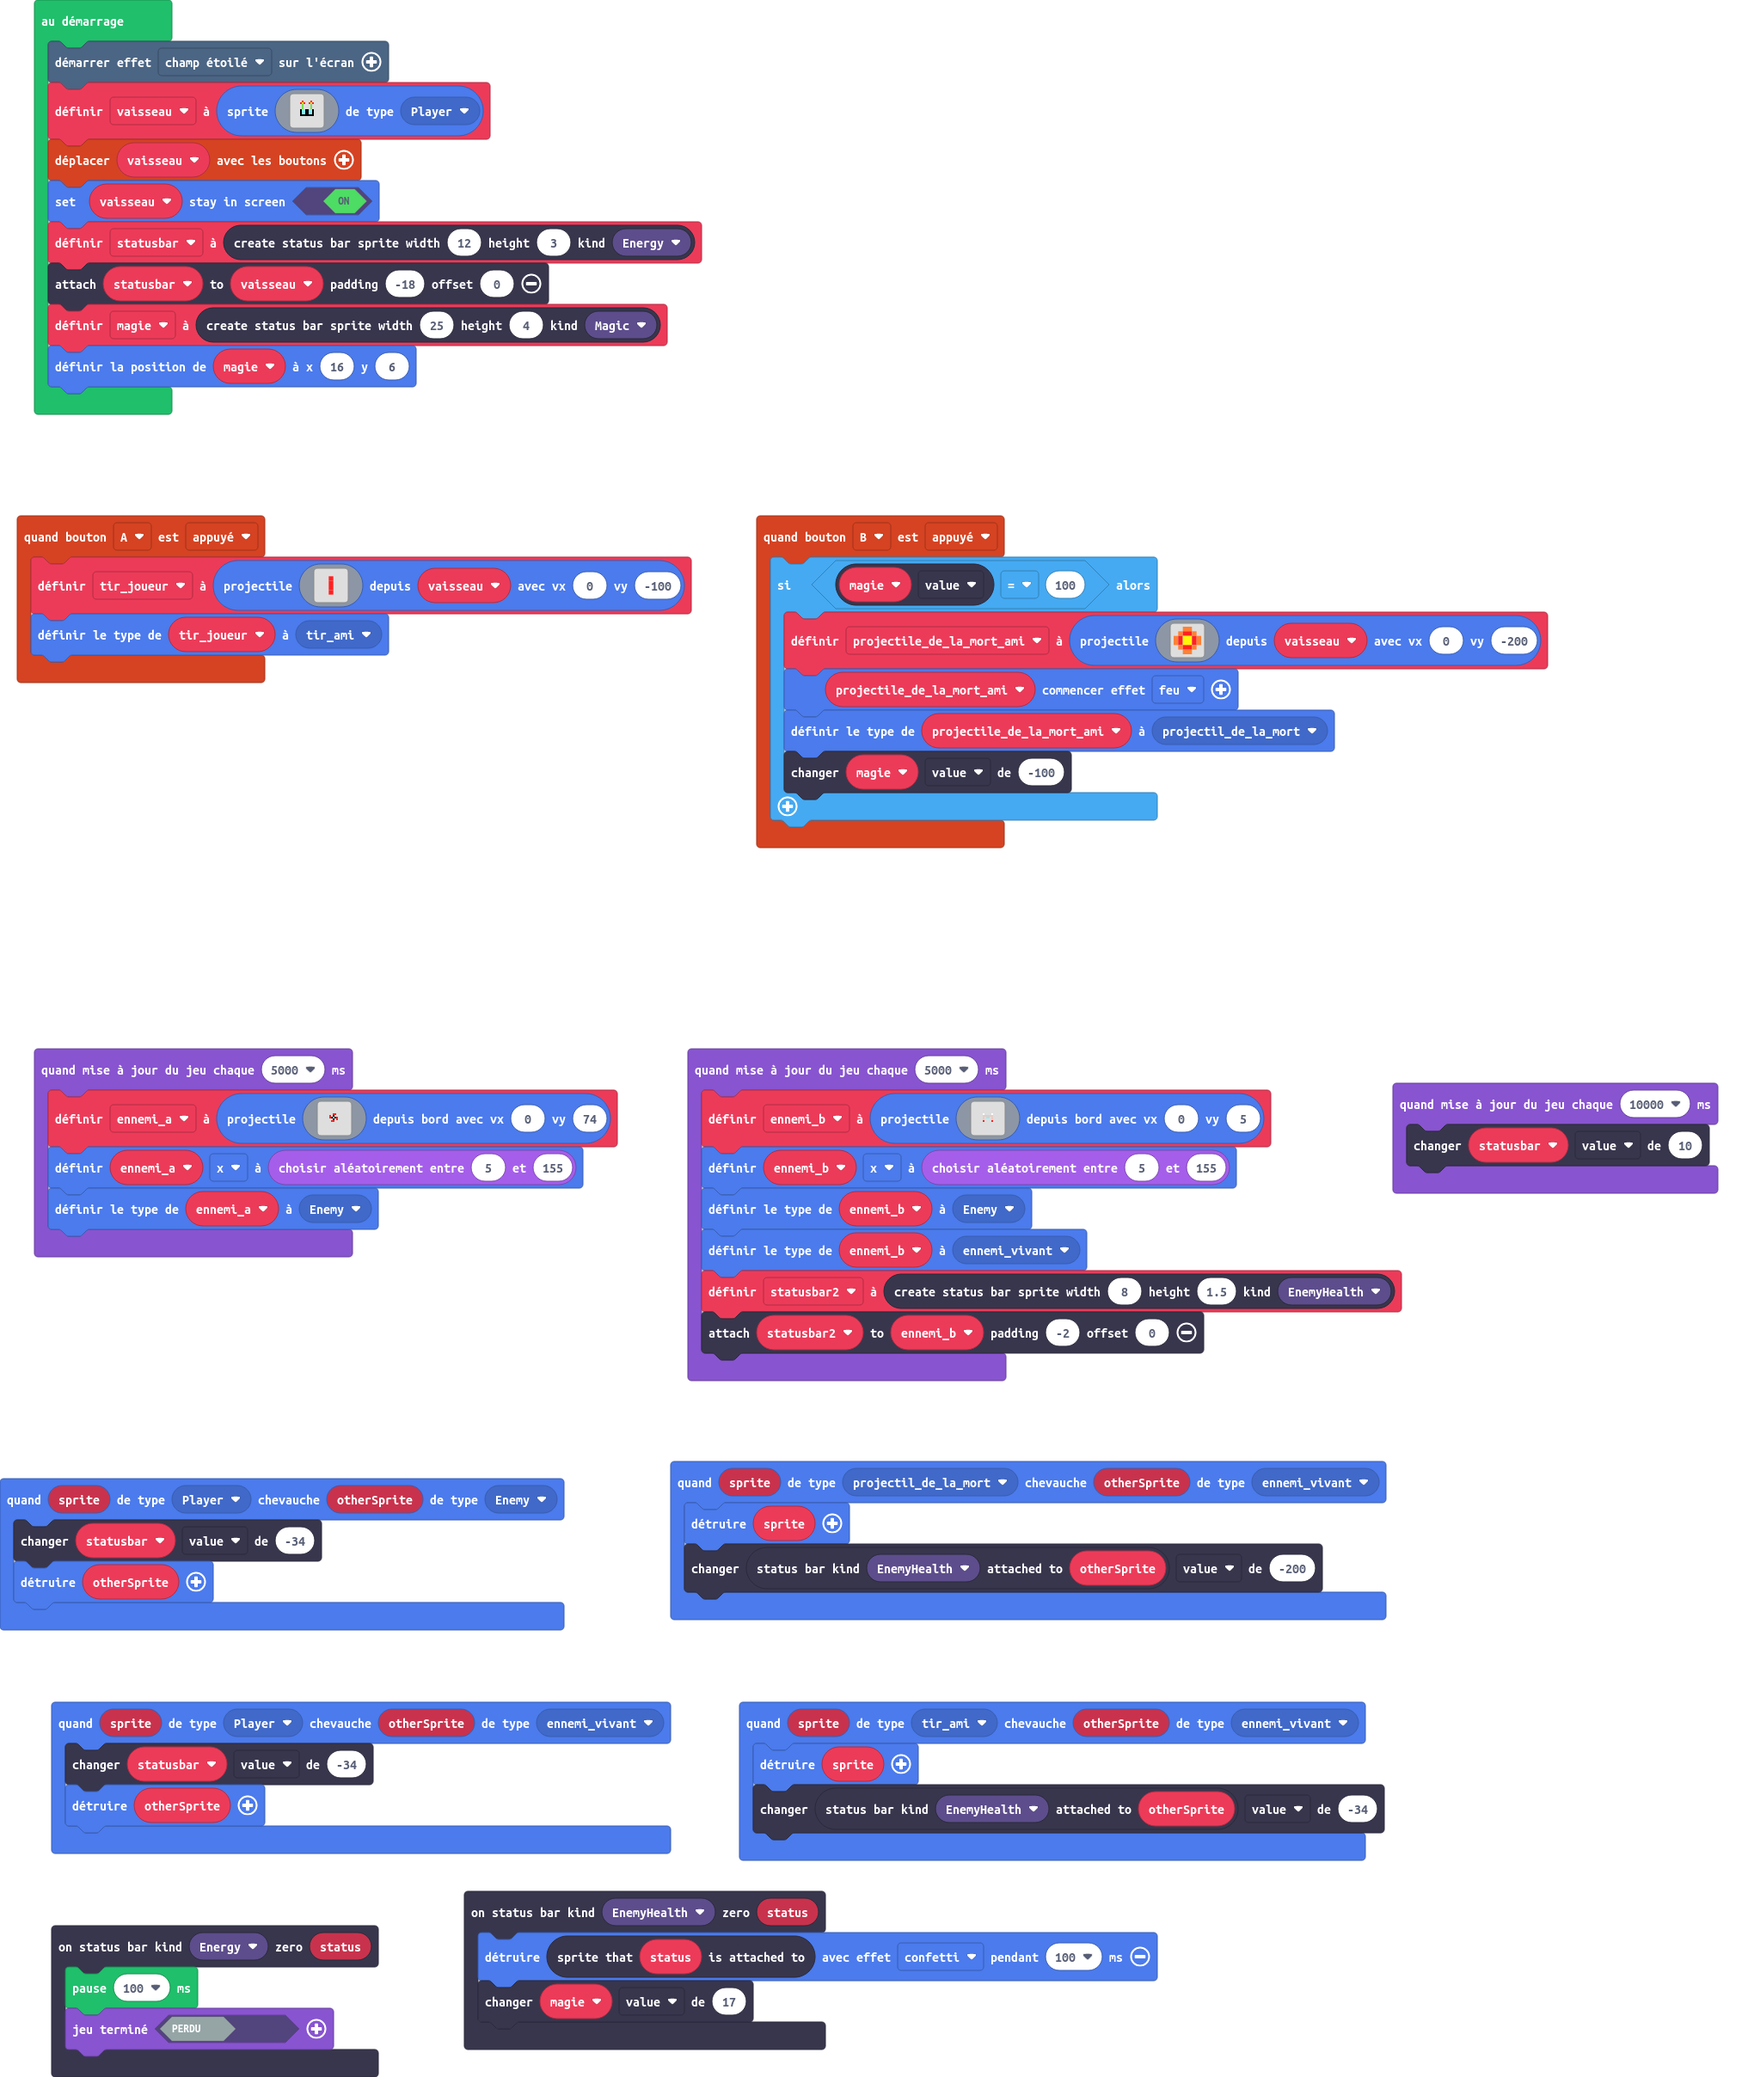
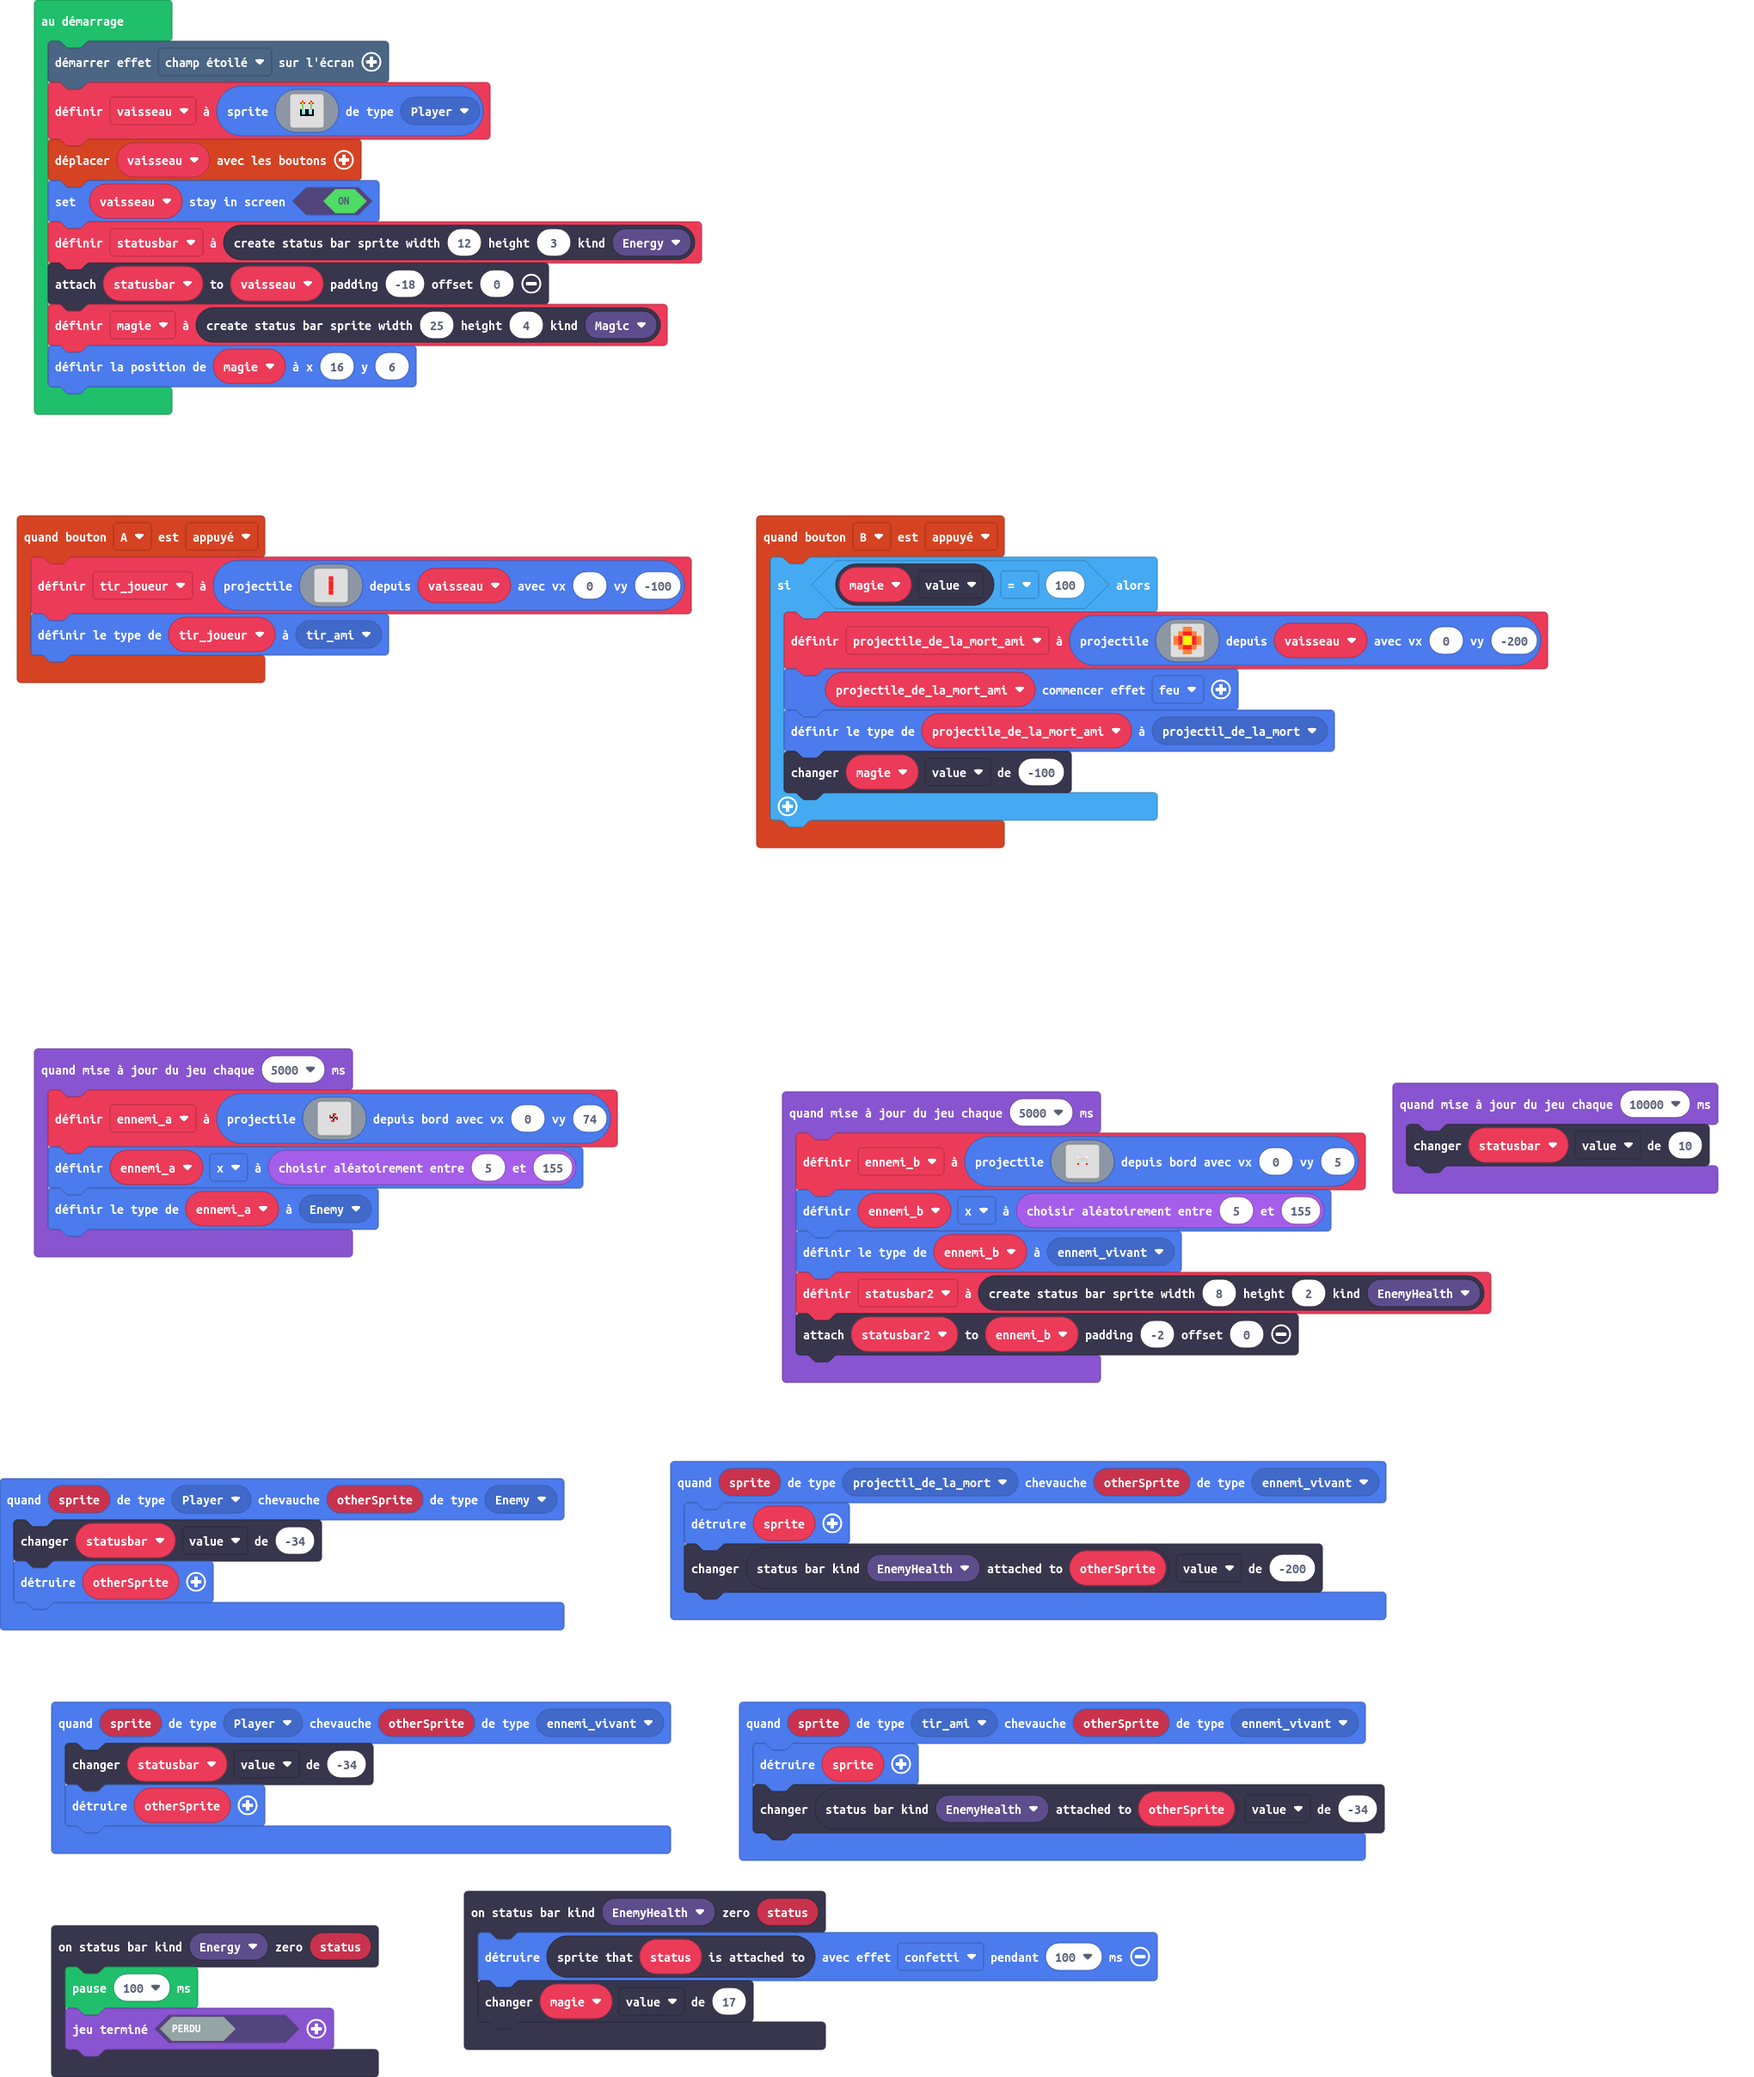
Mise à jour main.blocks, main.ts

Changed region(s): [[0.3706, 0.4967, 0.8647, 0.6829]]

diff --git a/main.ts b/main.ts
@@ -128,9 +128,8 @@ game.onUpdateInterval(5000, function () {
         . . . . . . . . . . . . . . . . 
         `, 0, 5)
     ennemi_b.x = randint(5, 155)
-    ennemi_b.setKind(SpriteKind.Enemy)
     ennemi_b.setKind(SpriteKind.ennemi_vivant)
-    statusbar2 = statusbars.create(8, 1.5, StatusBarKind.EnemyHealth)
+    statusbar2 = statusbars.create(8, 2, StatusBarKind.EnemyHealth)
     statusbar2.attachToSprite(ennemi_b, -2, 0)
 })
 game.onUpdateInterval(10000, function () {
